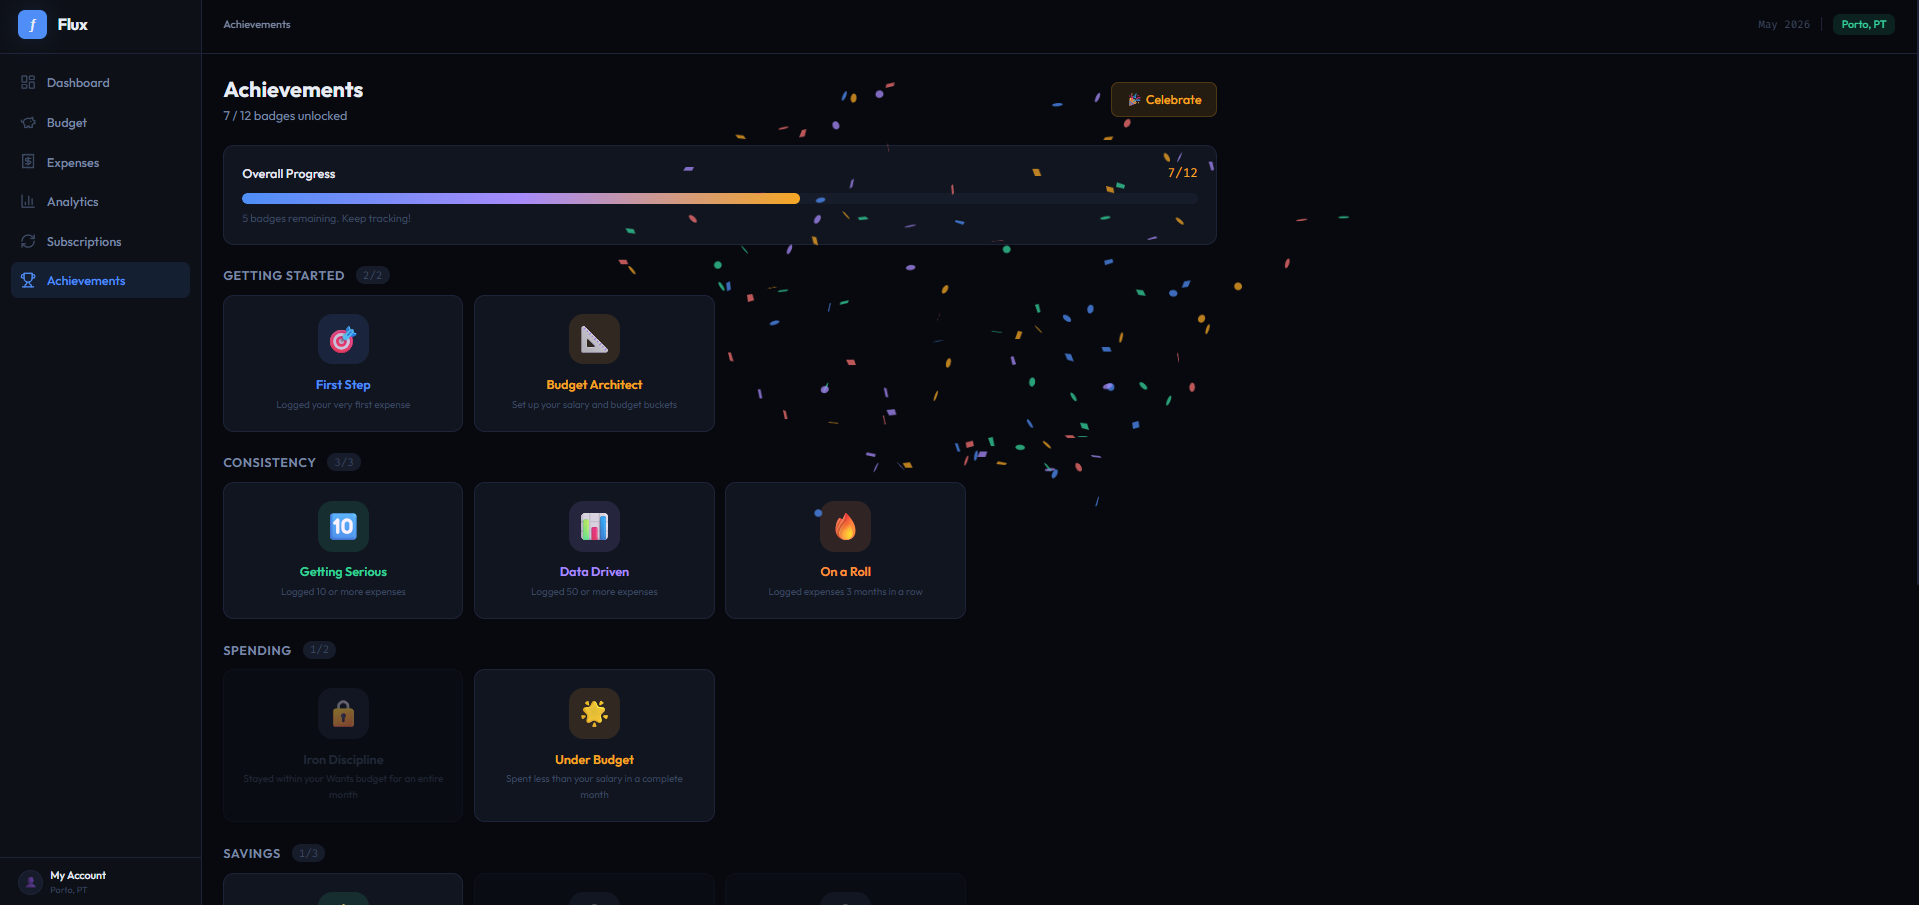
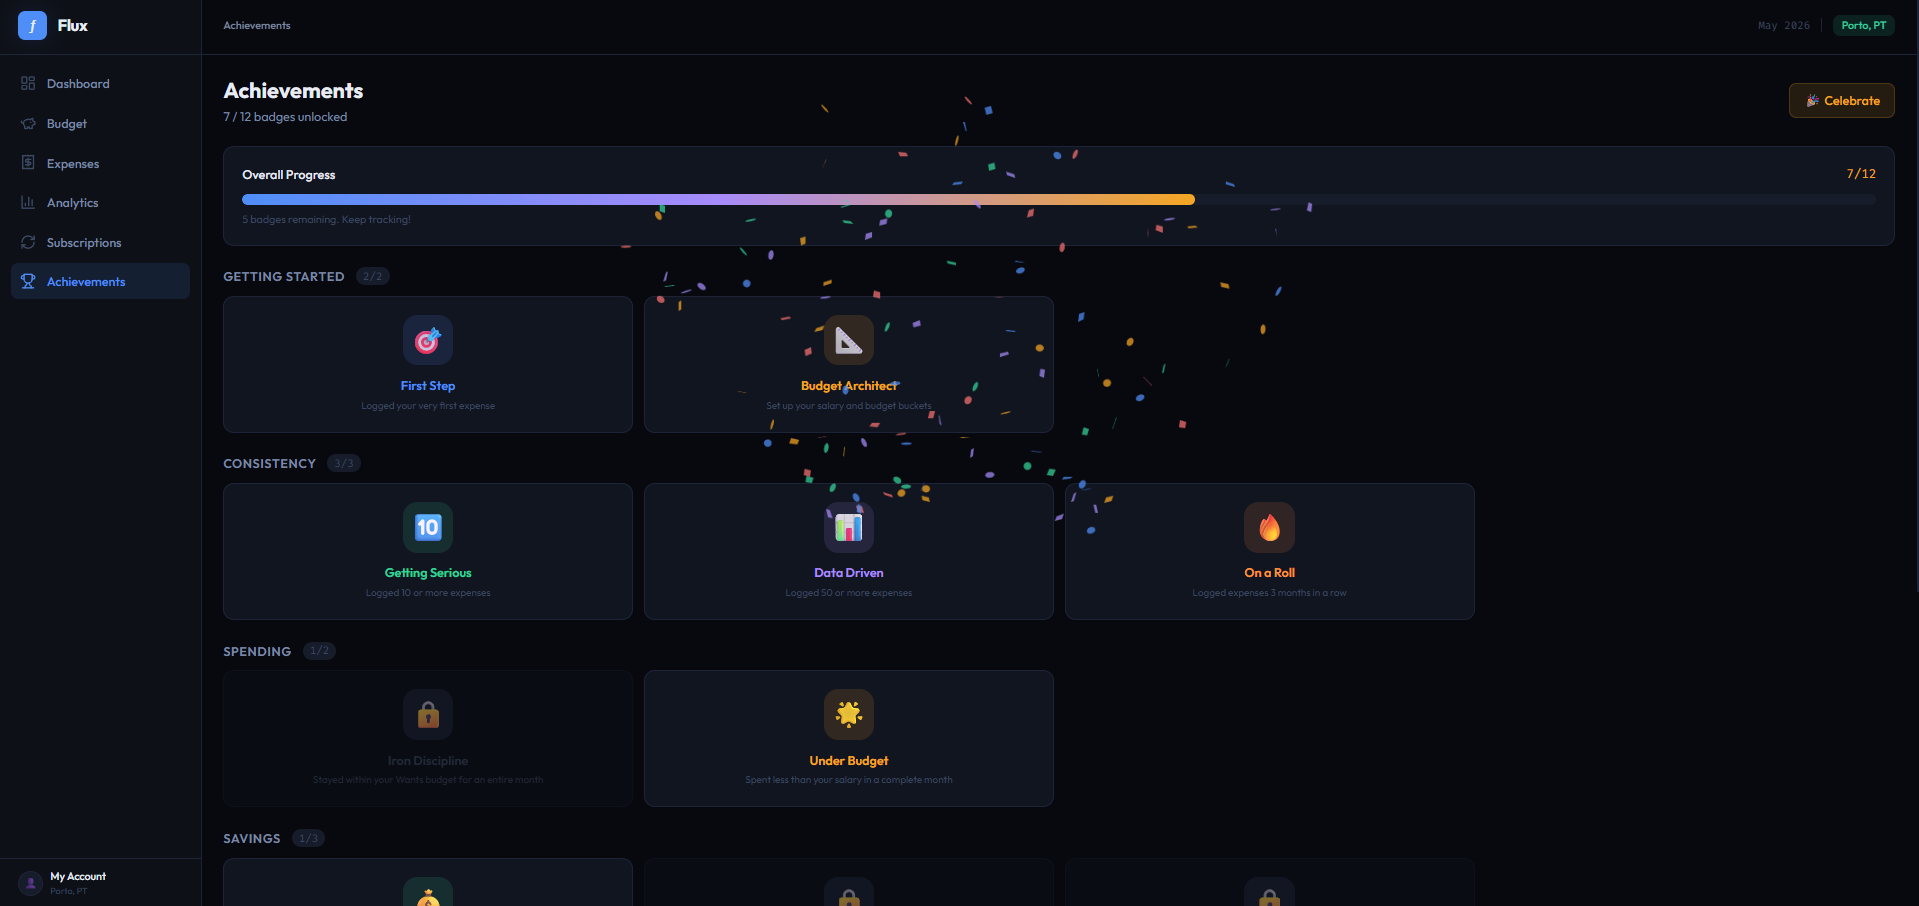
feat: Increased max screen width and updated README images accordingly

diff --git a/src/App.jsx b/src/App.jsx
@@ -41,7 +41,7 @@ export default function App() {
         </div>
 
         {/* Page content */}
-        <div className="p-6 max-w-6xl">
+        <div className="p-6 max-w-8xl">
           <PageComponent onNavigate={setPage} />
         </div>
       </main>

diff --git a/README.md b/README.md
@@ -2,6 +2,8 @@
 
 A modern, feature-rich personal finance tracker built with React, Vite and Tailwind CSS. Track expenses, split your salary into smart budget buckets, analyse spending patterns and stay on top of your financial health. All stored locally in your browser.
 
+![alt text](images/image-7.png)
+
 ---
 
 ## Features
